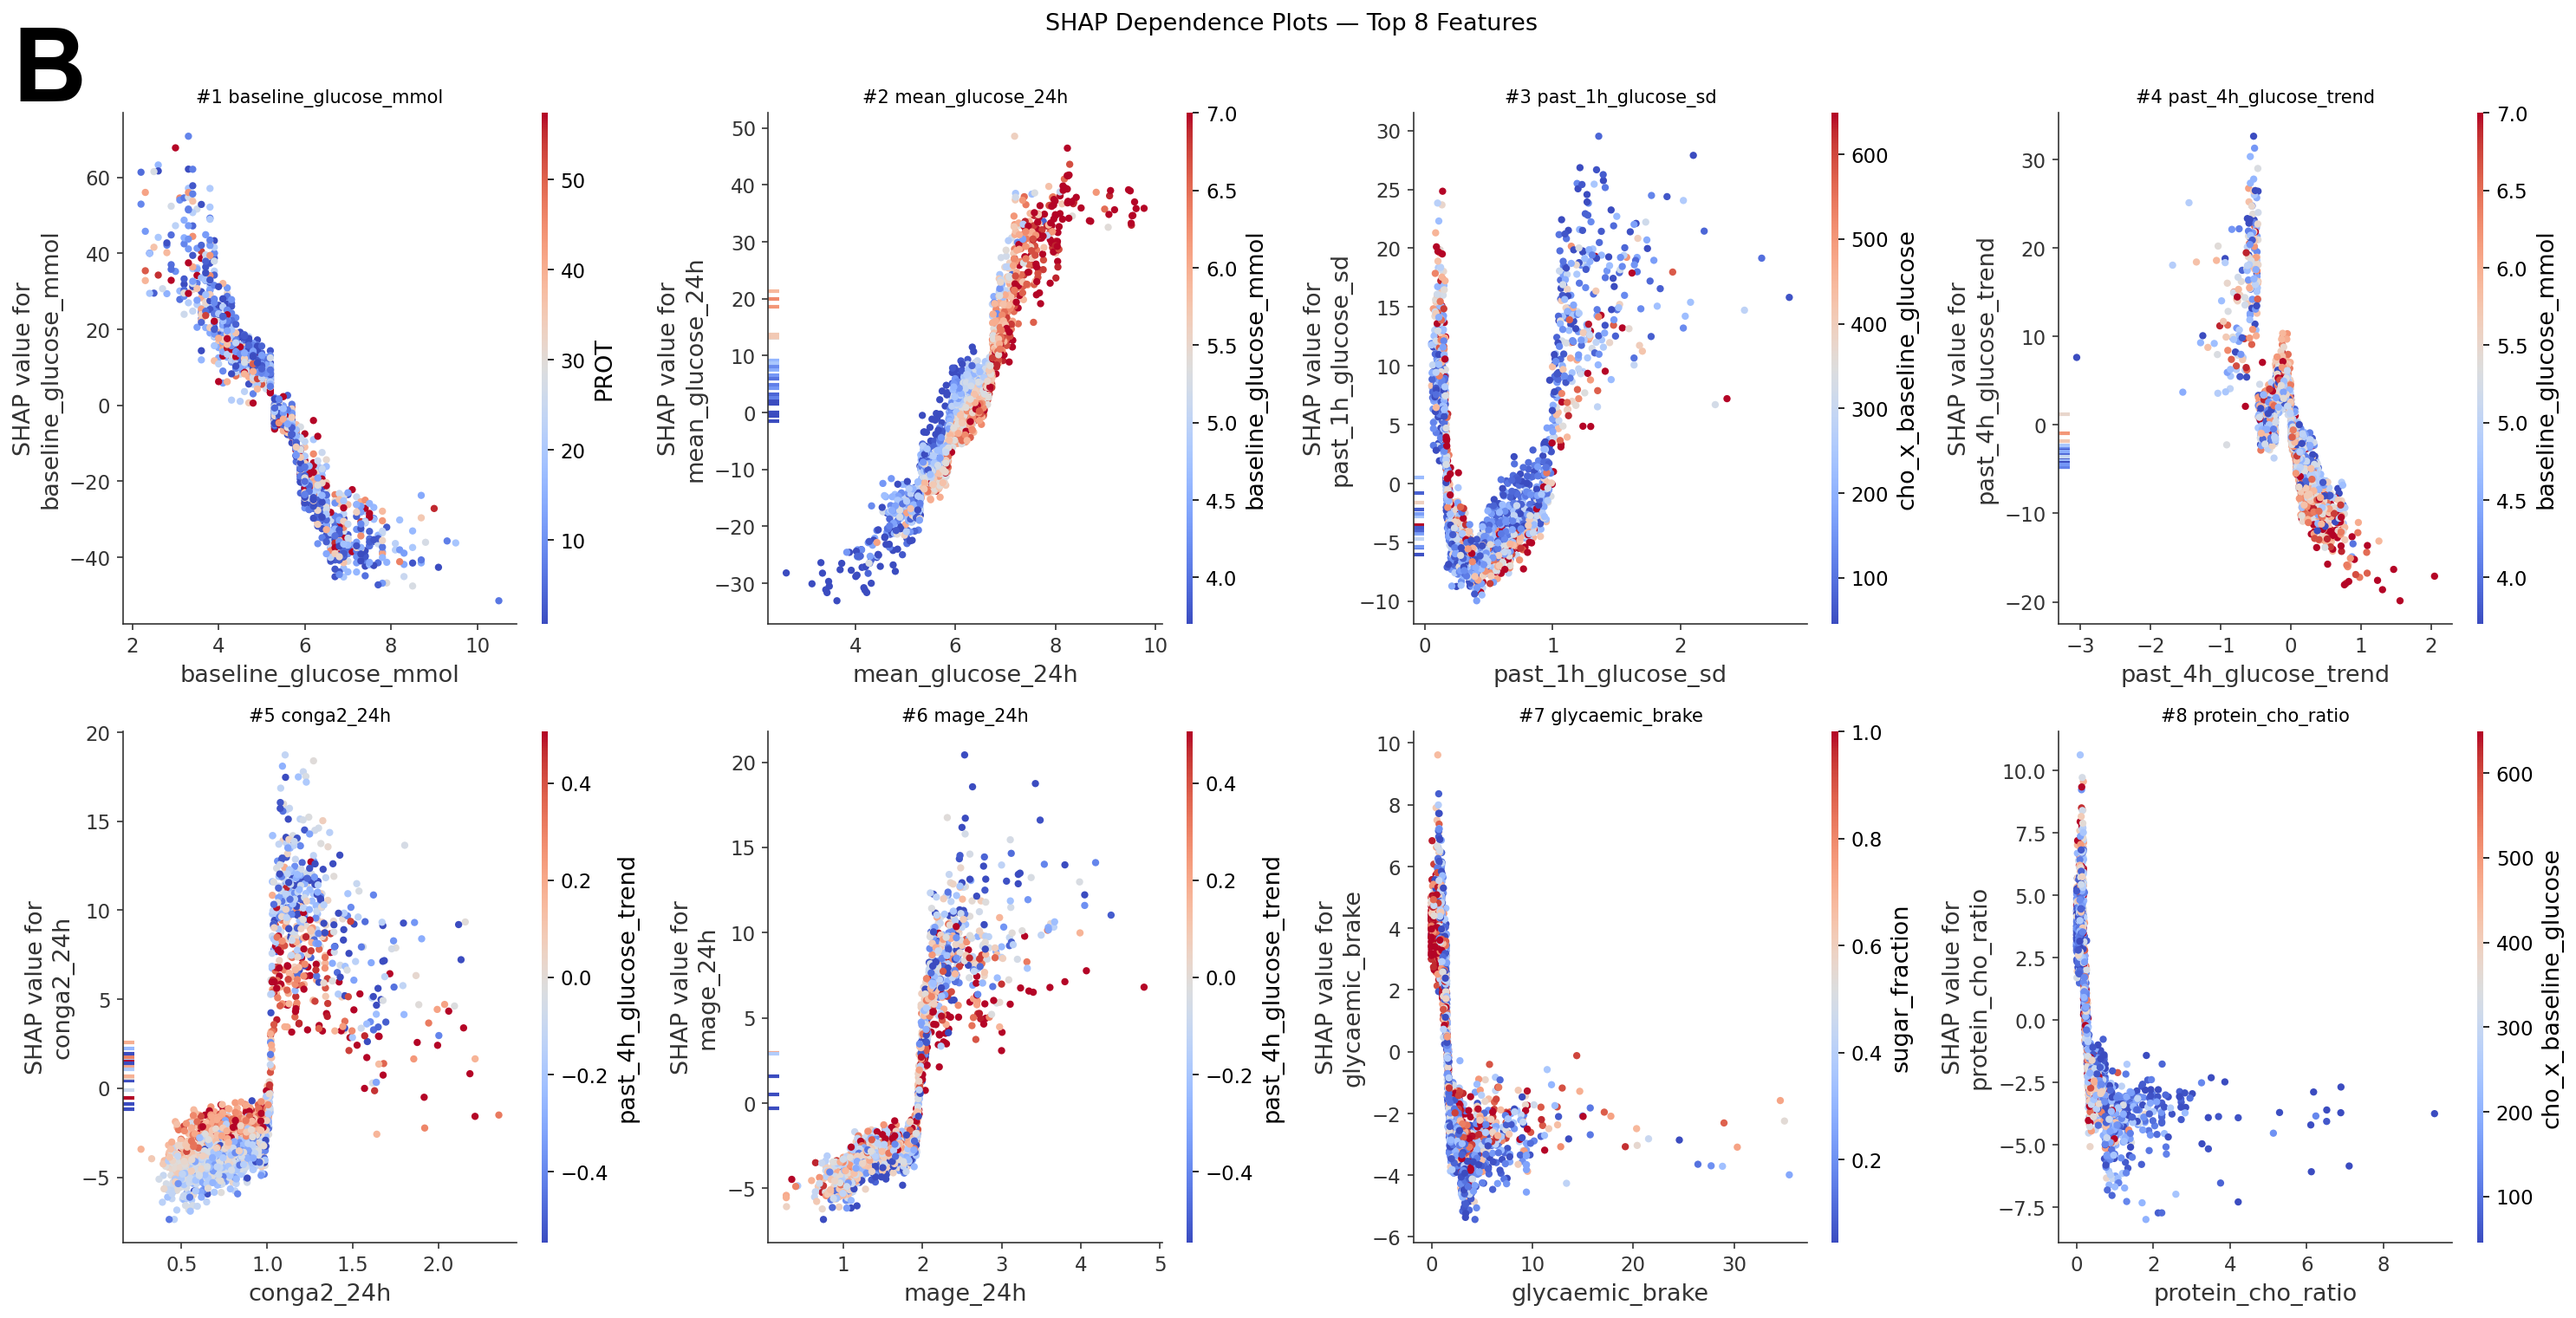
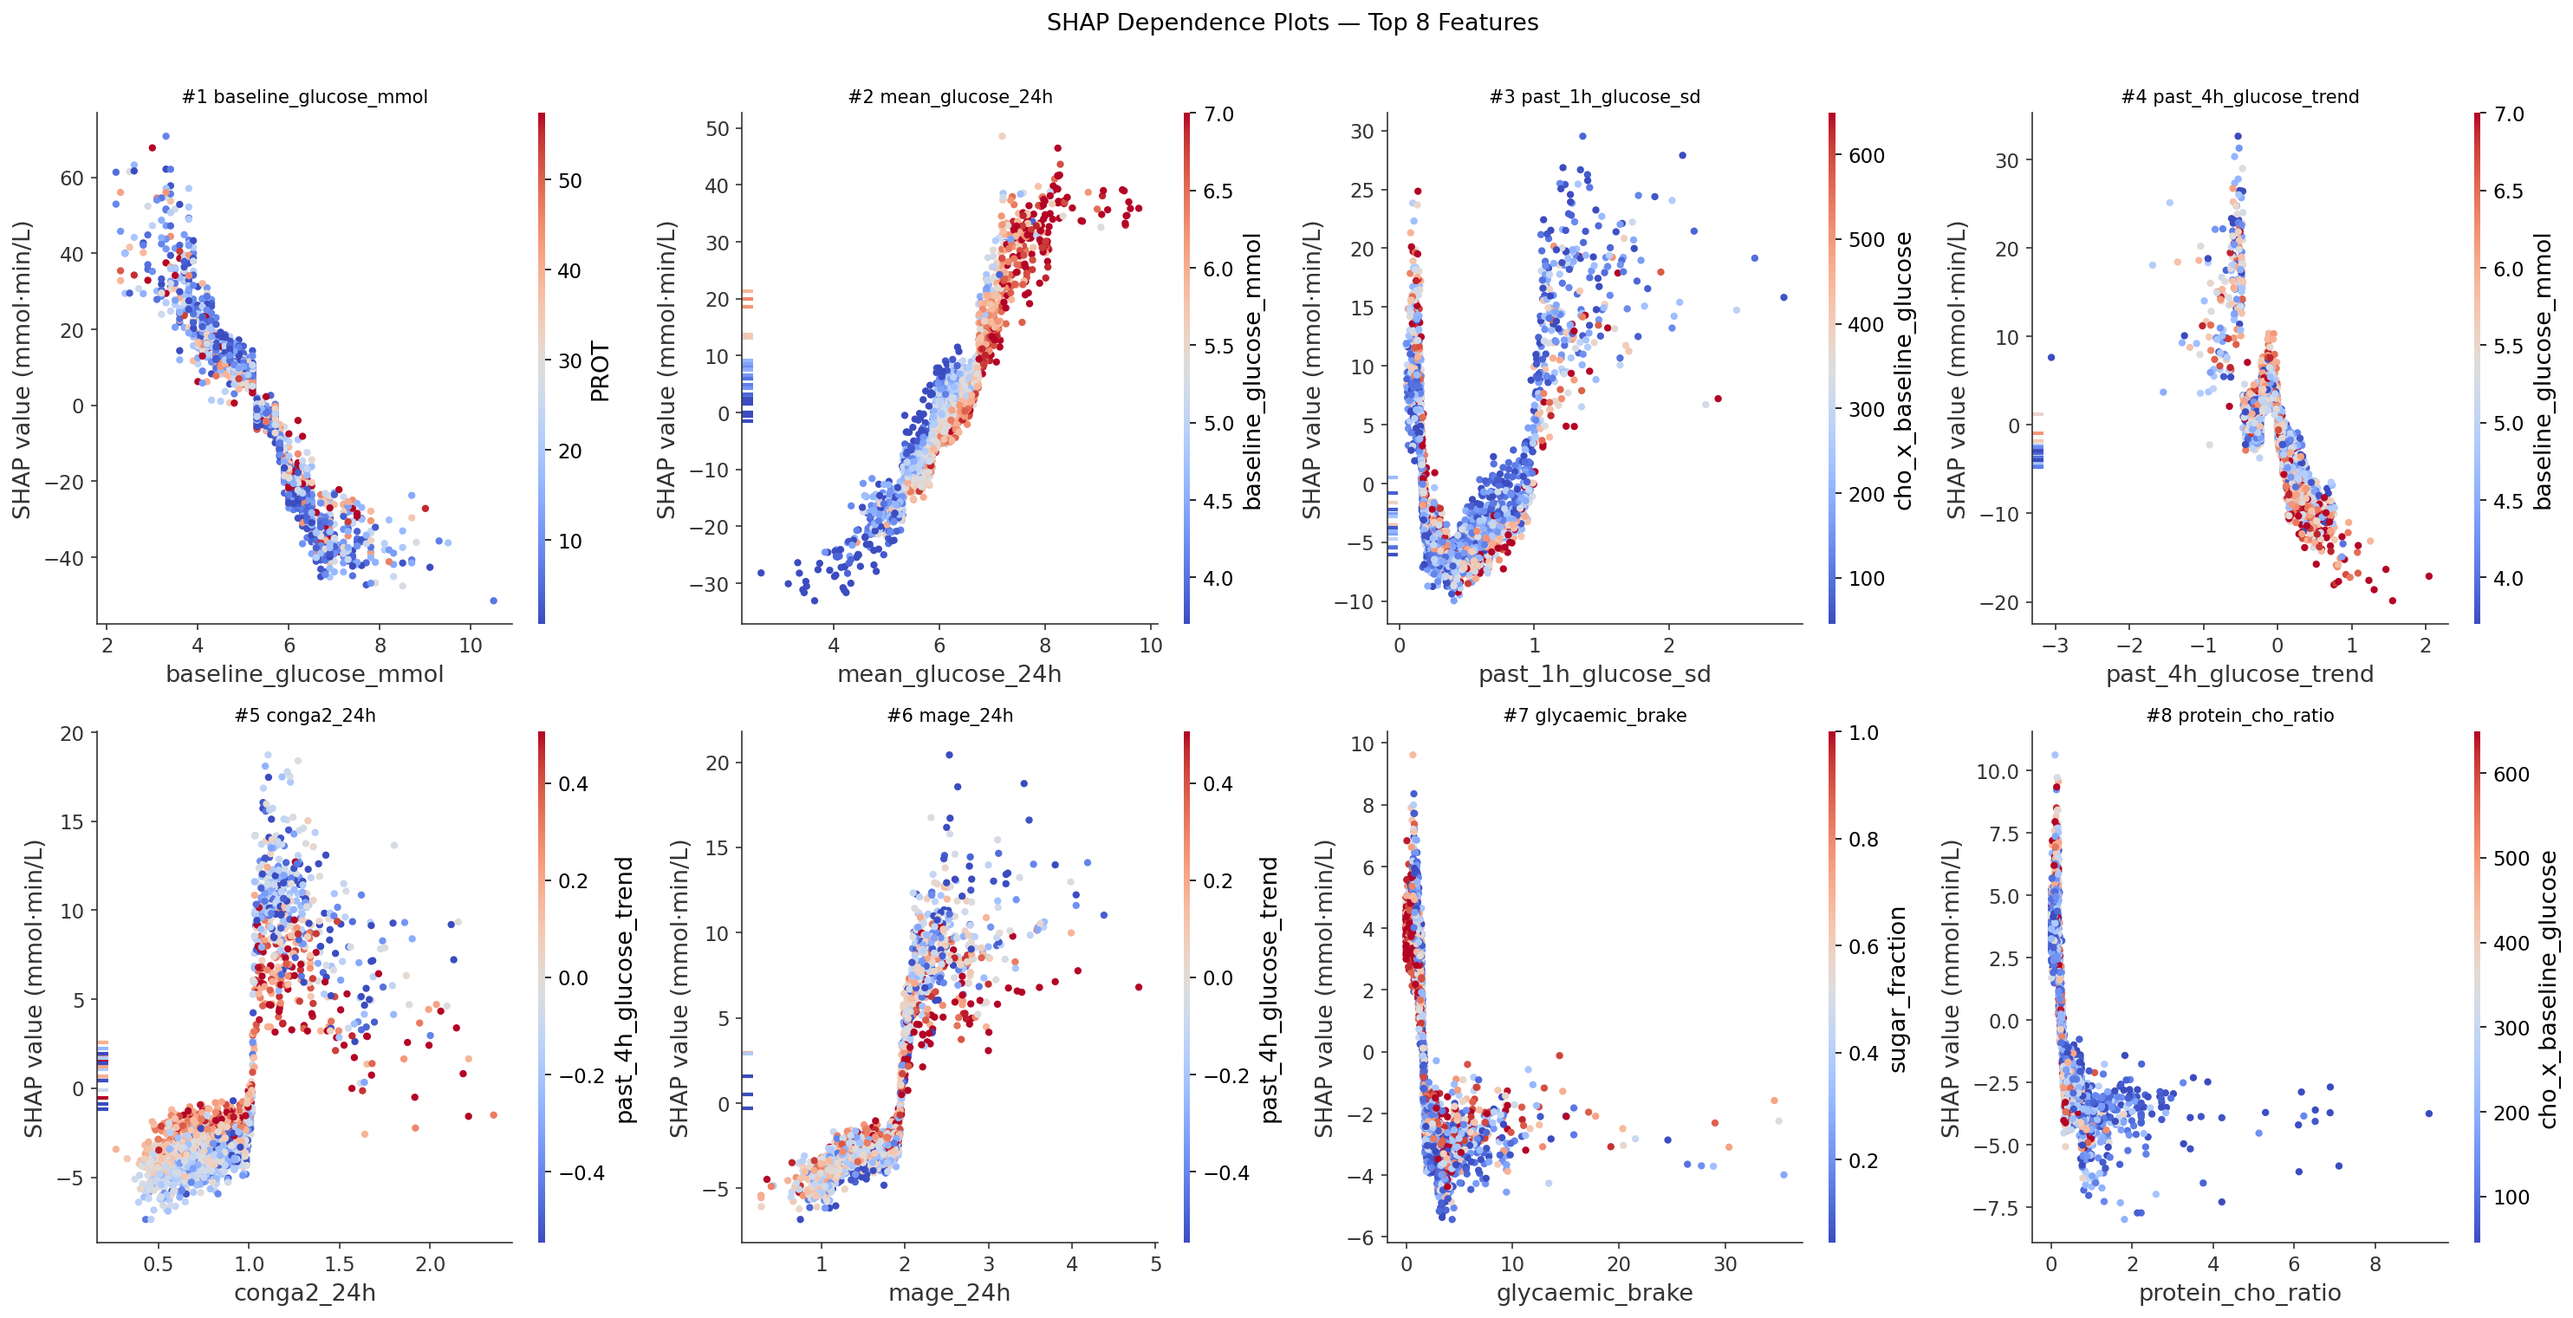
updated to correct units

diff --git a/shap_analysis.py b/shap_analysis.py
@@ -171,6 +171,7 @@ print("=" * 60)
 
 plt.figure(figsize=(10, 10))
 shap.summary_plot(shap_vals, X, max_display=20, show=False, cmap=SHAP_CMAP)
+plt.gca().set_xlabel("SHAP value (mmol·min/L)")
 plt.title("SHAP Global Feature Importance", fontsize=12)
 plt.tight_layout()
 p = SHAP_PLOT_DIR / "01_beeswarm_top20.png"
@@ -231,6 +232,7 @@ fig, axes = plt.subplots(2, 4, figsize=(20, 10))
 for i, (ax, feat) in enumerate(zip(axes.flat, top8)):
     shap.dependence_plot(feat, shap_vals, X, interaction_index="auto",
                          ax=ax, show=False, cmap=SHAP_CMAP)
+    ax.set_ylabel("SHAP value (mmol·min/L)")
     ax.set_title(f"#{i+1} {feat}", fontsize=10)
 plt.suptitle("SHAP Dependence Plots — Top 8 Features", fontsize=13, y=1.01)
 plt.tight_layout()
@@ -294,6 +296,7 @@ for label, idx in meal_cases.items():
     )
     fig = plt.figure(figsize=(10, 8))
     shap.waterfall_plot(expl, max_display=15, show=False)
+    plt.gca().set_xlabel("SHAP value (mmol·min/L)")
     plt.title(f"Waterfall — {label}\n"
               f"actual={y.iloc[idx]:.1f}, pred={preds[idx]:.1f}", fontsize=11)  # type: ignore[union-attr]
     plt.tight_layout()
@@ -320,6 +323,7 @@ if "CHO" in cfg.ALL_FEATURES and "baseline_glucose_mmol" in cfg.ALL_FEATURES:
         interaction_index="baseline_glucose_mmol",
         ax=ax, show=False, cmap=SHAP_CMAP,
     )
+    ax.set_ylabel("SHAP value (mmol·min/L)")
     ax.set_title("CHO SHAP value coloured by baseline glucose\n"
                  "(warm = high baseline → amplified carb response?)", fontsize=11)
     plt.tight_layout()
@@ -335,6 +339,7 @@ if "CHO" in cfg.ALL_FEATURES and "baseline_glucose_mmol" in cfg.ALL_FEATURES:
         interaction_index="CHO",
         ax=ax, show=False, cmap=SHAP_CMAP,
     )
+    ax.set_ylabel("SHAP value (mmol·min/L)")
     ax.set_title("baseline_glucose_mmol SHAP value coloured by CHO\n"
                  "(warm = high CHO → amplified glucose effect?)", fontsize=11)
     plt.tight_layout()
@@ -436,6 +441,7 @@ fig, ax = plt.subplots(1, 1, figsize=(9, 12))
 
 plt.sca(ax)
 shap.summary_plot(shap_vals_dc, X[dc_feats], max_display=25, show=False, cmap=SHAP_CMAP)
+ax.set_xlabel("SHAP value (mmol·min/L)")
 ax.set_title("SHAP — Dc-only model", fontsize=11)
 
 plt.tight_layout()

diff --git a/oof_scatter.py b/oof_scatter.py
@@ -95,8 +95,8 @@ def plot_scatter(oof: pd.DataFrame, r2: float, mae: float) -> None:
 
     ax.set_xlim(lims)
     ax.set_ylim(lims)
-    ax.set_xlabel("Observed iAUC (mmol·min)", fontsize=12)
-    ax.set_ylabel("Predicted iAUC (mmol·min)", fontsize=12)
+    ax.set_xlabel("Observed iAUC (mmol·min/L)", fontsize=12)
+    ax.set_ylabel("Predicted iAUC (mmol·min/L)", fontsize=12)
     ax.set_aspect("equal", adjustable="box")
 
     ax.spines["top"].set_visible(False)
@@ -105,7 +105,7 @@ def plot_scatter(oof: pd.DataFrame, r2: float, mae: float) -> None:
 
     ax.text(
         0.04, 0.96,
-        f"$R^2$ = {r2:.3f}\nMAE = {mae:.1f} mmol·min",
+        f"$R^2$ = {r2:.3f}\nMAE = {mae:.1f} mmol·min/L",
         transform=ax.transAxes,
         va="top", ha="left",
         fontsize=11,

diff --git a/train.py b/train.py
@@ -212,6 +212,7 @@ def run_shap(model, X):
 
     fig, ax = plt.subplots(figsize=(10, 8))
     shap.summary_plot(shap_vals, X, max_display=20, show=False, cmap=plt.cm.coolwarm)
+    plt.gca().set_xlabel("SHAP value (mmol·min/L)")
     plt.tight_layout()
     p = cfg.PLOT_DIR / "shap_summary.png"
     plt.savefig(p, dpi=150, bbox_inches="tight")
@@ -224,6 +225,7 @@ def run_shap(model, X):
     fig, axes = plt.subplots(2, 2, figsize=(12, 9))
     for ax, feat in zip(axes.flat, top4):
         shap.dependence_plot(feat, shap_vals, X, ax=ax, show=False)
+        ax.set_ylabel("SHAP value (mmol·min/L)")
     plt.tight_layout()
     p = cfg.PLOT_DIR / "shap_dependence_top4.png"
     plt.savefig(p, dpi=150, bbox_inches="tight")
